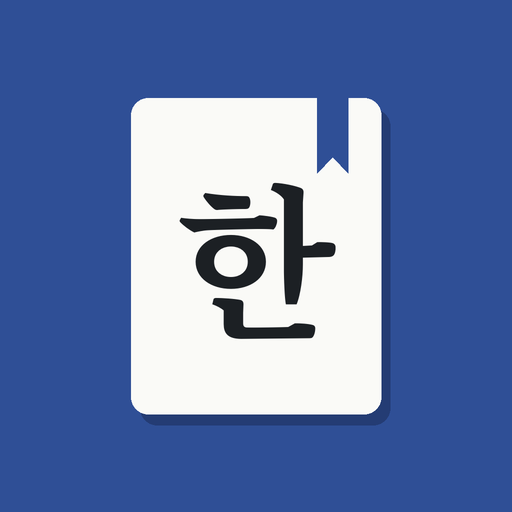
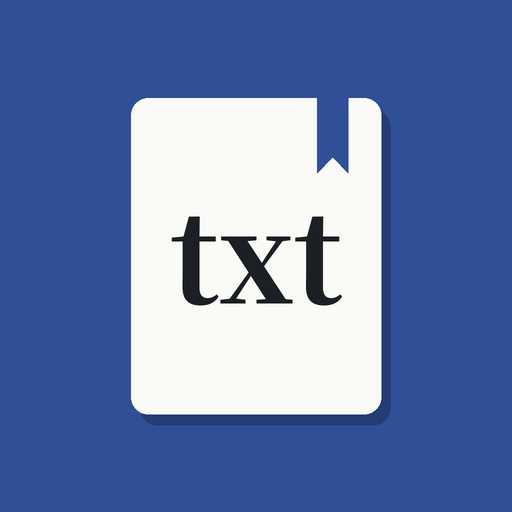
리더 앱 이름을 txt리더기로 변경, 아이콘 교체
홈 화면 이름·제목·안내서 문구를 txt리더기로 바꾸고 아이콘 글자를 'txt'로 교체.
넣어 둔 책이 유지되도록 내부 저장소 이름(hanjang)은 그대로 둠.

Claude-Session: https://claude.ai/code/session_01G9bPLiv88dVZEXjMBZromt

Changed region(s): [[0.3438, 0.3438, 0.6875, 0.6875]]

diff --git a/reader/sw.js b/reader/sw.js
@@ -1,5 +1,6 @@
-// 한장 리더 오프라인 캐시
-const VERSION = 'hanjang-v1';
+// txt리더기 오프라인 캐시 (저장소 이름의 hanjang은 예전 이름, 넣은 책을 지키려고 그대로 둠)
+const VERSION = 'hanjang-v2';
+const FONTS = 'hanjang-fonts';
 const CORE = ['./', './index.html', './manifest.webmanifest', './icon-180.png', './icon-192.png', './icon-512.png'];
 
 self.addEventListener('install', e => {
@@ -7,7 +8,7 @@ self.addEventListener('install', e => {
 });
 self.addEventListener('activate', e => {
   e.waitUntil(caches.keys()
-    .then(keys => Promise.all(keys.filter(k => k.startsWith('hanjang-') && k !== VERSION).map(k => caches.delete(k))))
+    .then(keys => Promise.all(keys.filter(k => k.startsWith('hanjang-') && k !== VERSION && k !== FONTS).map(k => caches.delete(k))))
     .then(() => self.clients.claim()));
 });
 self.addEventListener('fetch', e => {
@@ -16,7 +17,7 @@ self.addEventListener('fetch', e => {
   const url = new URL(req.url);
   // 글꼴: 한 번 받은 조각은 계속 재사용
   if (url.hostname === 'fonts.googleapis.com' || url.hostname === 'fonts.gstatic.com') {
-    e.respondWith(caches.open(VERSION + '-fonts').then(async c => {
+    e.respondWith(caches.open(FONTS).then(async c => {
       const hit = await c.match(req); if (hit) return hit;
       try { const res = await fetch(req); if (res.ok || res.type === 'opaque') c.put(req, res.clone()); return res; }
       catch (err) { return hit || Response.error(); }
